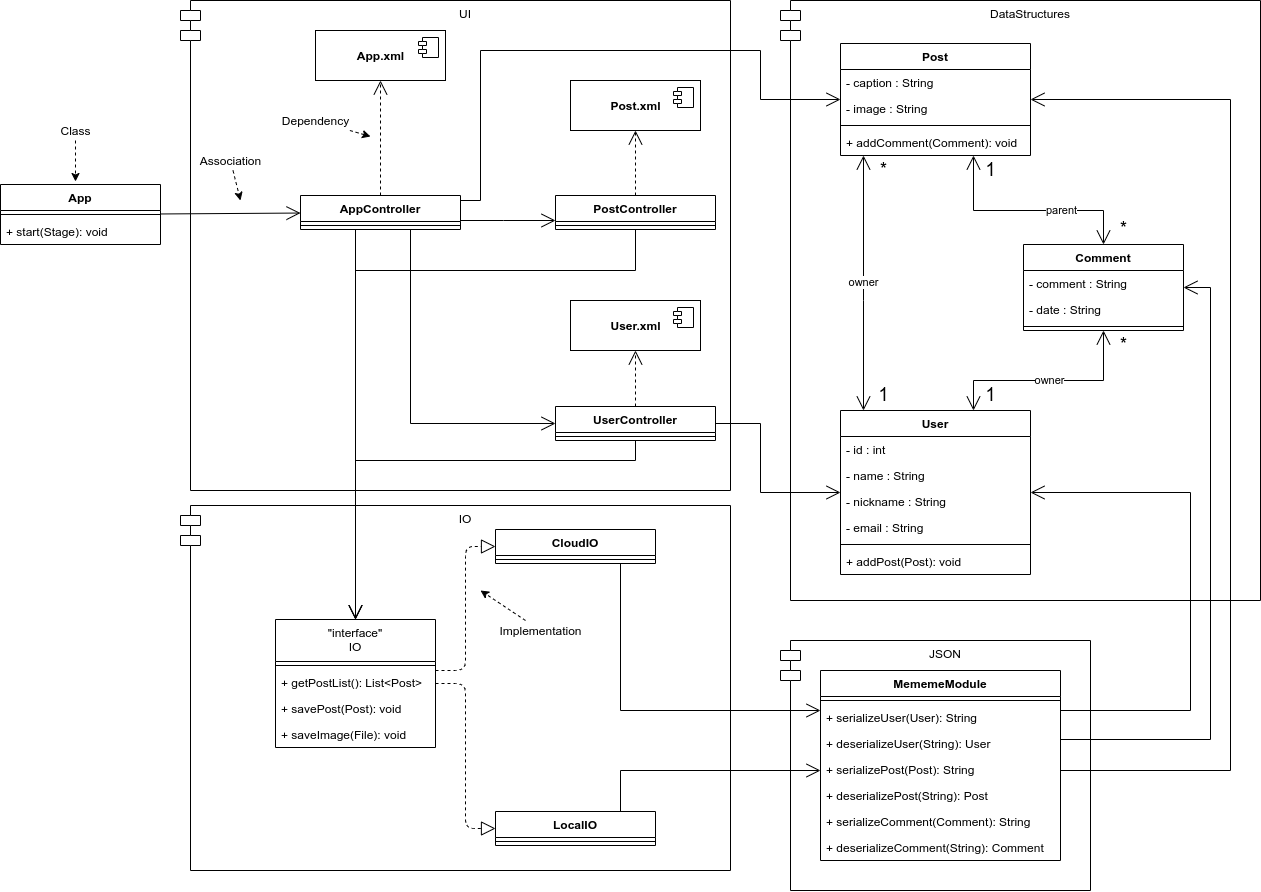
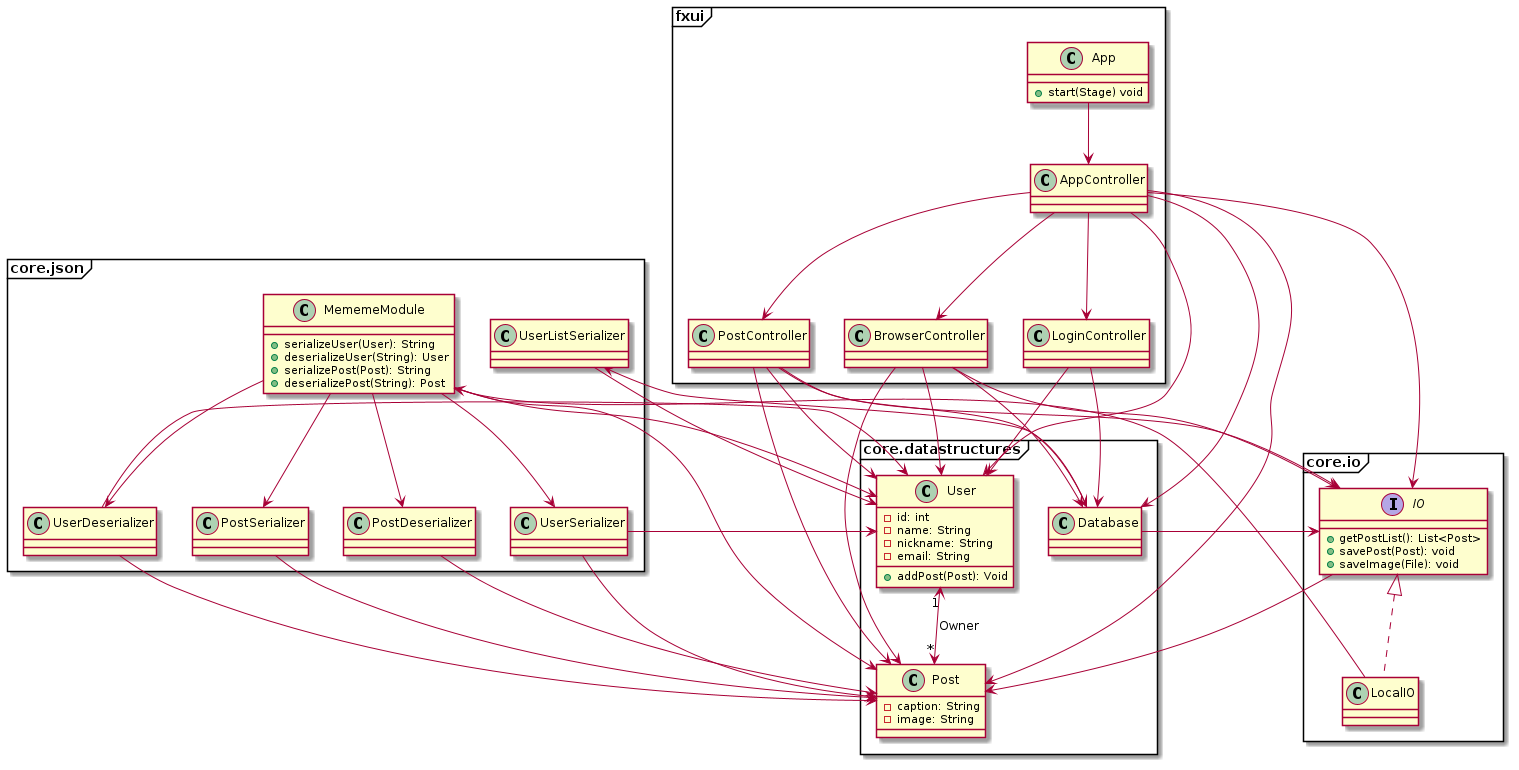
(#22) Updated README and Class Diagram

diff --git a/mememedb/README.md b/mememedb/README.md
@@ -3,21 +3,21 @@
 
 MEMEMEDB is a meme sharing application.
 With this application users may view, share, post and comment on memes.
-A meme consists of a picture and a caption,
-and users may add comments to the posted meme.
+A meme consists of a picture and a caption.
 
 ## Code Organization
 
 The code is organized by component,
 and has the following directory structure:
 
-* **`src/mememedb/`** - contains the main code
-* **`src/mememedb/<component>`** - each subcomponent (e.g json) has its own folder
-* **`src/resources/`** - contains images etc.
-* **`test/mememedb/`** - contains the tests
+* **`<module>/src/<module>/`** - contains the module code
+* **`<module>/src/<module>/<component>`** - each subcomponent (e.g json) has its own folder
+* **`<module>/src/resources/`** - contains images etc.
+* **`<module>/test/<module>/<component>`** - contains the tests
 
 The following class diagram shows the outline of the code structure:
 
+![Class Diagram](ClassDiagram.png)
 ```plantuml
 package fxui <<Frame>> {
     class App
@@ -154,5 +154,5 @@ to ensure quality criteria are met.
 The goal `jacoco:check` runs as part of this goal.
 * `jacoco:check` - Checks that the code coverage metrics are being met.
 * `jacoco:report` - Generates test coverage report to `target/site/jacoco`.
-* `javafx:run` - Run the javafx app.
+* `javafx:run` - Run the javafx app from fxui directory.
 * `javadoc:aggregate` - Generate javadocs for the project
